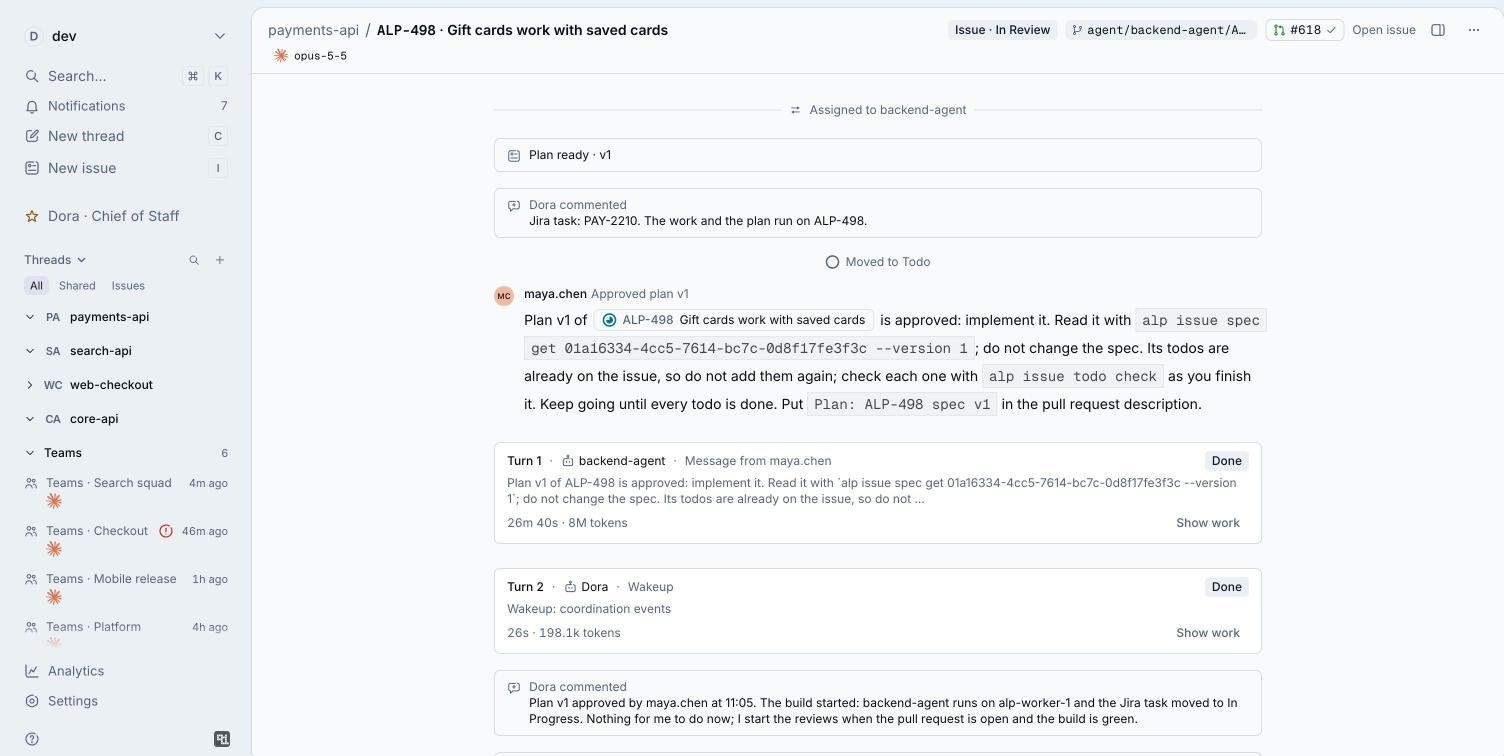
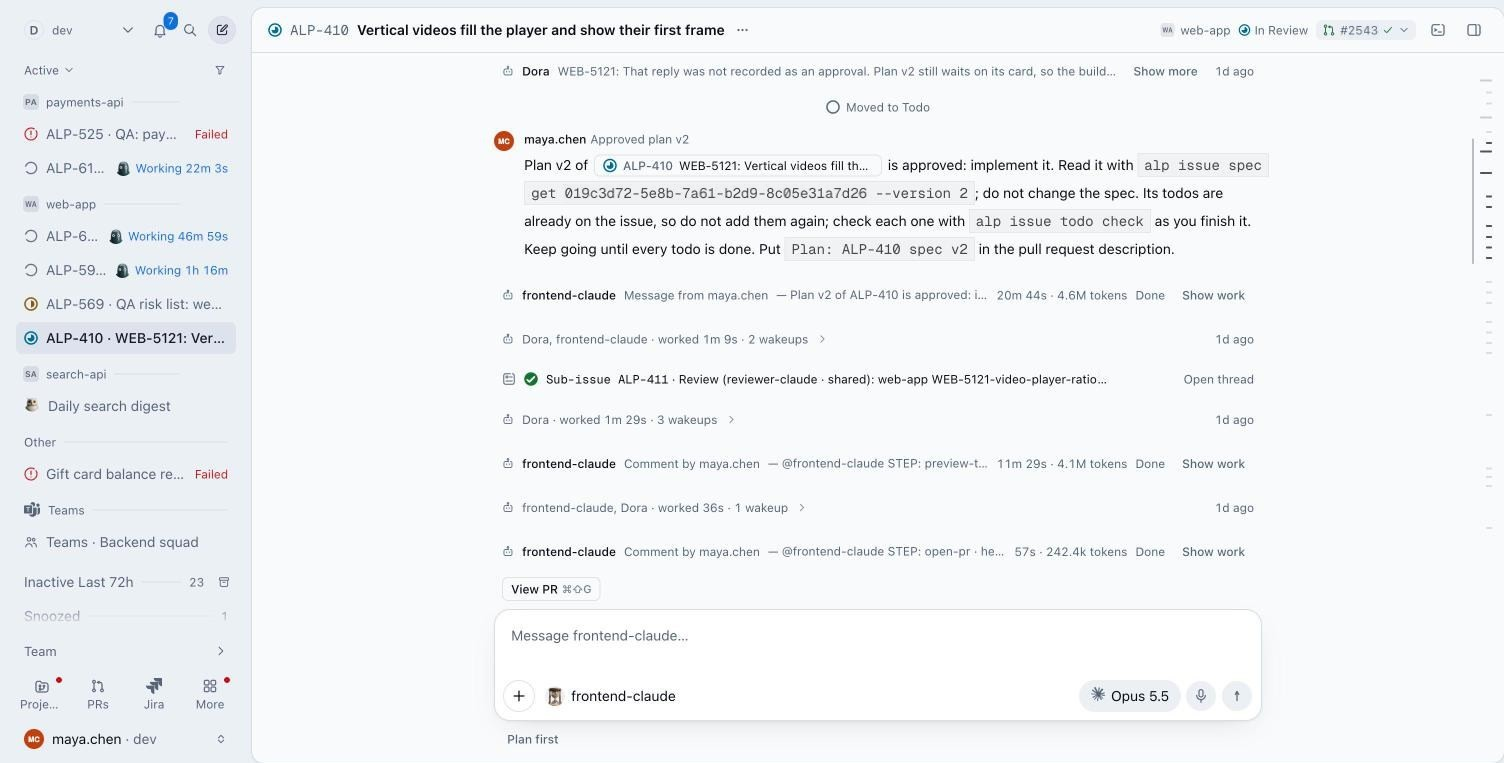
feat(alp): refresh product screenshots from the current app
Replace the issue thread, Twins and Workbench shots with the current UI.
Content is neutral demo data.

diff --git a/alp/index.html b/alp/index.html
@@ -624,8 +624,8 @@ details p { margin: 0 0 20px; color: var(--ink-2); max-width: 680px; }
           <li><span class="n">05</span><div><h3>You decide</h3><p>Going live stays with people. Alp tells the chat when the work is ready, and the whole trail stays on the issue.</p></div></li>
         </ol>
         <figure class="alpwin">
-          <div class="bar" aria-hidden="true"><i></i><i></i><i></i><span>Alp · ALP-498</span></div>
-          <img src="shots/alp-thread-light.jpg" alt="An issue in Alp: plan v1 approved, the backend agent's build turn of 26 minutes, and Dora's coordination turns" width="1504" height="756" loading="lazy">
+          <div class="bar" aria-hidden="true"><i></i><i></i><i></i><span>Alp · ALP-410</span></div>
+          <img src="shots/alp-thread-light.jpg" alt="An issue thread in Alp: plan v2 approved, the frontend agent's 20-minute build turn, a review sub-issue that passed, and Dora's coordination turns" width="1504" height="763" loading="lazy">
         </figure>
       </div>
     </div>
@@ -674,7 +674,7 @@ details p { margin: 0 0 20px; color: var(--ink-2); max-width: 680px; }
         </div>
         <figure class="shot">
           <div class="bar" aria-hidden="true"><i></i><i></i><i></i><span>Alp · Settings · Twins</span></div>
-          <img src="shots/alp-twins.jpg" alt="Alp settings, Twins page: set up a twin, and a Kubernetes pod that is asleep, with size, auto-sleep and Claude Code and Codex sign-ins" width="1260" height="771" loading="lazy">
+          <img src="shots/alp-twins.jpg" alt="Alp settings, Twins page: set up a twin, your own cloud computer, or a Kubernetes pod that starts when work arrives" width="1252" height="520" loading="lazy">
         </figure>
       </div>
       <div class="wbench">
@@ -691,7 +691,7 @@ details p { margin: 0 0 20px; color: var(--ink-2); max-width: 680px; }
         </div>
         <figure class="shot">
           <div class="bar" aria-hidden="true"><i></i><i></i><i></i><span>Alp · Workbench</span></div>
-          <img src="shots/alp-workbench.jpg" alt="Alp Workbench: worktrees on a laptop, a twin and a Kubernetes pod; a Claude Code session; and the searchable history of agent sessions" width="1512" height="771" loading="lazy">
+          <img src="shots/alp-workbench.jpg" alt="Alp Workbench: worktrees and running agents on a laptop and a twin, a file open in the editor, and the searchable history of agent sessions" width="1504" height="763" loading="lazy">
         </figure>
       </div>
     </div>
